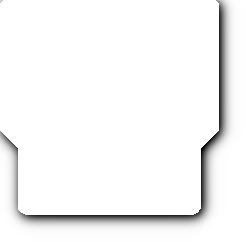
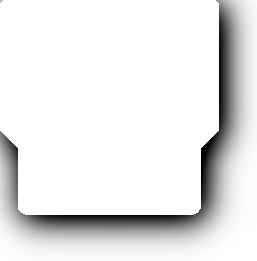
Spell shape

Changed region(s): [[0.0, 0.0, 0.9675, 0.9256]]

diff --git a/altered.css b/altered.css
@@ -1402,7 +1402,10 @@ html {
 .player-board-hero .altered-card:not(.force-frame).card-spell,
 .player-board-hero .altered-card:not(.force-frame).card-spell .altered-card-wrapper,
 .player-board-hero .altered-card:not(.force-frame).card-spell .altered-card-wrapper .card-frame {
-  border-radius: 50%; }
+  border-top-left-radius: 25% 50%;
+  border-top-right-radius: 25% 50%;
+  border-bottom-left-radius: 25% 50%;
+  border-bottom-right-radius: 25% 50%; }
 .altered-card.no-frame:not(.force-frame).card-permanent,
 .altered-card.mini-card:not(.force-frame).card-permanent,
 .player-board-hero .altered-card:not(.force-frame).card-permanent {
@@ -2597,7 +2600,7 @@ html {
       position: absolute;
       width: 110px;
       height: 150px;
-      left: 750px;
+      left: 780px;
       z-index: 40;
       pointer-events: none; }
       .altered-player-board .player-board-hand .player-board-limbo .altered-card {
@@ -2664,7 +2667,7 @@ html {
 #altered-board-opponent .altered-player-board .player-board-hand {
   bottom: 370px; }
   #altered-board-opponent .altered-player-board .player-board-hand .player-board-limbo {
-    top: 50px; }
+    top: 130px; }
 #altered-board-opponent .altered-player-board .player-board-grass {
   top: 129px; }
   #altered-board-opponent .altered-player-board .player-board-grass .player-board-reserve {
@@ -2698,7 +2701,7 @@ html {
 #altered-board-me .altered-player-board .player-board-hand {
   top: 370px; }
   #altered-board-me .altered-player-board .player-board-hand .player-board-limbo {
-    top: -300px; }
+    top: -265px; }
 #altered-board-me .altered-player-board .player-board-grass {
   top: 202px; }
   #altered-board-me .altered-player-board .player-board-grass .player-board-reserve {

diff --git a/modules/css/player-board.scss b/modules/css/player-board.scss
@@ -450,7 +450,7 @@
             position: absolute;
             width: $cardWidth;
             height: $cardHeight;
-            left: 750px;
+            left: 780px;
             z-index: 40;
             pointer-events: none;
 
@@ -575,7 +575,7 @@
         }
 
         .player-board-limbo {
-            top: 50px;
+            top: 130px;
         }
     }
 
@@ -634,7 +634,7 @@
     .player-board-hand {
         top: 370px;
         .player-board-limbo {
-            top: -300px;
+            top: -265px;
         }
     }
 

diff --git a/modules/css/cards.scss b/modules/css/cards.scss
@@ -643,7 +643,10 @@ $miniCardScale: 0.33;
         &,
         .altered-card-wrapper,
         .altered-card-wrapper .card-frame {
-            border-radius: 50%;
+            border-top-left-radius: 25% 50%;
+            border-top-right-radius: 25% 50%;
+            border-bottom-left-radius: 25% 50%;
+            border-bottom-right-radius: 25% 50%;
         }
     }
 
